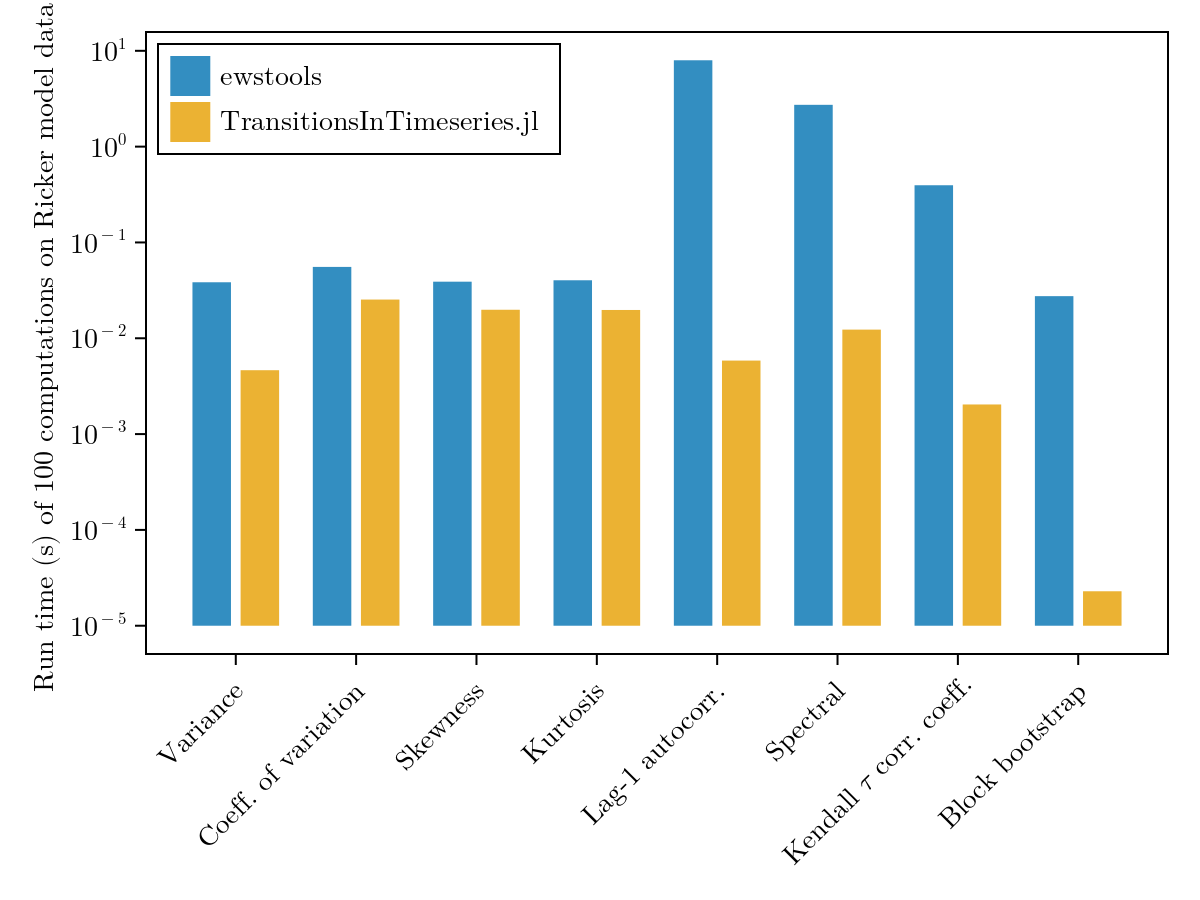
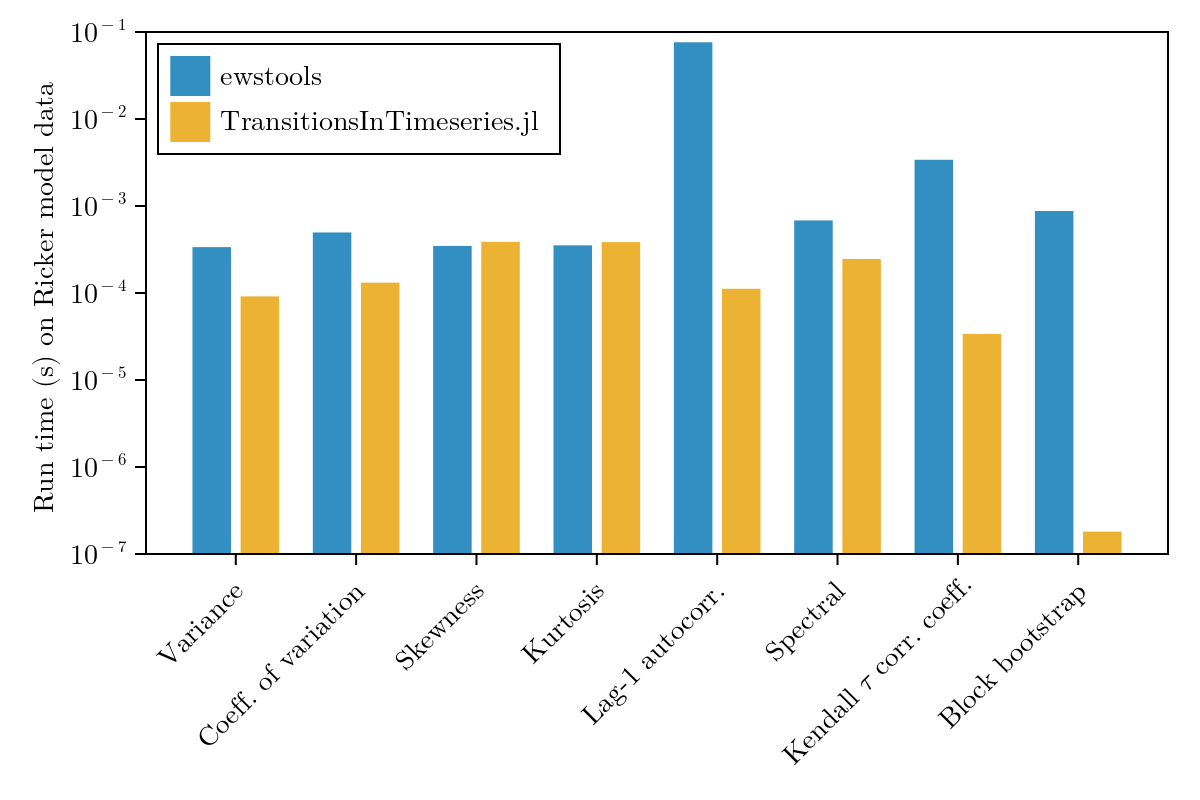
Addressing the reviews for JOSS submission (#83)
* permute left and right axis to ease reading

* write output to csv

* correct examples

* csv outputs to data folder

* read output from new csv file

* change timing to min (consistent with @belapsed)

* use @belapsed

* change csv name in comment

* update figures

* add extensibility earlier + modify description of performance

* specify ewstools version

* generalise to OffsetArrays

* remove unused packages and add OffsetArrays

diff --git a/paper/code/ewstools-tuto-1.py b/paper/code/ewstools-tuto-1.py
@@ -3,58 +3,74 @@ import numpy as np
 import matplotlib.pyplot as plt
 import ewstools
 from ewstools.models import simulate_ricker
+from importlib.metadata import version
 
-# Set seed for reproducibility
-np.random.seed(0)
+if version('ewstools') != '2.1.0':
+    raise ValueError('Please install version 2.1.0 of ewstools')
 
-# Initialize time series and spectrum computation
-series = simulate_ricker(tmax=1000, F=[0,2.7])
-ts = ewstools.TimeSeries(data=series, transition=860)
-ts.detrend(method='Lowess', span=0.2)
-ts.state[['state','smoothing']].plot()
-ts.compute_spectrum(rolling_window=0.5, ham_length=40)
+def ewstools_setup():
+    # Initialize time series and spectrum computation
+    series = simulate_ricker(tmax=1000, F=[0,2.7])
+    ts = ewstools.TimeSeries(data=series, transition=860)
+    ts.detrend(method='Lowess', span=0.2)
+    ts.state[['state','smoothing']].plot()
+    ts.compute_spectrum(rolling_window=0.5, ham_length=40)
+    return ts
 
-# Initialize parameters for timing functions
-rw = 0.5
-n = 100
-t_elapsed = np.zeros(10)
+np.random.seed(0)           # Set random seed for reproducibility
+rw = 0.5                    # Rolling window for variance computation
+ts = ewstools_setup()       # Setup time series
+n = 100                     # Number of iterations for timing
+t_elapsed = np.zeros(n)     # Array to store elapsed times
+t_minruntime = np.zeros(8) # Array to store minimum runtime
 
-# Time functions (in a not very elegant way)
-t0 = time.time()
 for i in range(n):
+    t0 = time.time()
     ts.compute_var(rolling_window=rw)
-t_elapsed[0] = time.time() - t0
+    t_elapsed[i] = time.time() - t0
+t_minruntime[0] = min(t_elapsed)
 
-t0 = time.time()
 for i in range(n):
+    t0 = time.time()
     ts.compute_cv()
-t_elapsed[1] = time.time() - t0
+    t_elapsed[i] = time.time() - t0
+t_minruntime[1] = min(t_elapsed)
 
-t0 = time.time()
 for i in range(n):
+    t0 = time.time()
     ts.compute_skew(rolling_window=rw)
-t_elapsed[2] = time.time() - t0
+    t_elapsed[i] = time.time() - t0
+t_minruntime[2] = min(t_elapsed)
 
-t0 = time.time()
 for i in range(n):
+    t0 = time.time()
     ts.compute_kurt()
-t_elapsed[3] = time.time() - t0
+    t_elapsed[i] = time.time() - t0
+t_minruntime[3] = min(t_elapsed)
 
-t0 = time.time()
 for i in range(n):
+    t0 = time.time()
     ts.compute_auto(rolling_window=rw, lag=1)
-t_elapsed[4] = time.time() - t0
+    t_elapsed[i] = time.time() - t0
+t_minruntime[4] = min(t_elapsed)
 
-t0 = time.time()
 for i in range(n):
+    t0 = time.time()
     ts.compute_smax()
-t_elapsed[5] = time.time() - t0
+    t_elapsed[i] = time.time() - t0
+t_minruntime[5] = min(t_elapsed)
 
-t0 = time.time()
 for i in range(n):
+    t0 = time.time()
     ts.compute_ktau()
-t_elapsed[6] = time.time() - t0
+    t_elapsed[i] = time.time() - t0
+t_minruntime[6] = min(t_elapsed)
 
-t0 = time.time()
-surro = ewstools.core.block_bootstrap(ts.state.residuals, n, bs_type='Stationary', block_size=10)
-t_elapsed[7] = time.time() - t0
+for i in range(n):
+    t0 = time.time()
+    ewstools.core.block_bootstrap(ts.state.residuals, 1, bs_type='Stationary', block_size=10)
+    t_elapsed[i] = time.time() - t0
+t_minruntime[7] = min(t_elapsed)
+
+np.savetxt('../data/ewstools_ricker.csv', ts.state[['residuals']].values)
+np.savetxt('../data/ewstools_perfo.csv', t_minruntime, delimiter=',')

diff --git a/paper/paper.md b/paper/paper.md
@@ -44,12 +44,15 @@ work predicting a collapse of the Atlantic Meridional Overturning Circulation be
 and 2095 has led to no less than 870 news outlets and 4100 tweets [@ditlevsen_warning_2023],
 largely because of the substantial implications of such a collapse for human societies.
 A common concern in the scientific community is that published work on the topic is difficult
-to reproduce, despite the impact it implies for humanity.
-This can be largely addressed by a unifying software that is accessible, performant,
-reproducible, reliable and extensible. Such a software does not exist yet, but here
-we propose TransitionsInTimeseries.jl to fill this gap.
-We believe this is a major step towards establishing a software as standard, widely used
-by academics working on transitions in timeseries.
+to reproduce, despite the impact it implies for humanity. Additionally, existing softwares
+[@dakos_methods_2012, @bury_ewstools_2023] are well suited to apply some state-of-the-art
+techniques but lack the possibility of being easily extended by the users, thus making them
+unsuited for some research task.
+Both of these issues can be largely addressed by a unifying software that is accessible,
+performant, reproducible, reliable and extensible. Such a software does not exist yet, but
+here we propose TransitionsInTimeseries.jl to fill this gap. We believe this is a major step
+towards establishing a software as standard, widely used by academics working on transitions
+in timeseries.
 
 # TransitionsInTimeseries.jl
 
@@ -77,8 +80,11 @@ surrogates, corresponding to a p-value $p<0.05$. All these steps can be performe
 visualisation of the results within a few lines only:
 
 ```julia
+using TransitionsInTimeseries, CairoMakie, Random
+
 # Loading and preprocessing the data needs to be done by the user
 time, data = load_data()
+residual = data - filt(data)
 
 # Choose the indicators and how to measure their change over time
 indicators = (var, ar1_whitenoise)
@@ -89,8 +95,8 @@ config = SegmentedWindowConfig(indicators, change_metrics, [time[1]], [time[end]
     width_ind = length(residual) ÷ 2, whichtime = last, min_width_cha = 100)
 
 # Compute the metrics over sliding windows and their significance
-results = estimate_changes(config, data, time)
-signif = SurrogatesSignificance(n = 1000, tail = :right, rng = Xoshiro(1995))
+results = estimate_changes(config, residual, time)
+signif = SurrogatesSignificance(n = 1000, tail = (:right, :right), rng = Xoshiro(1995))
 flags = significant_transitions(results, signif)
 
 # Visualize the results
@@ -118,7 +124,7 @@ TransitionsInTimeseries.jl is written in Julia, which offers both a simple synta
 performance. Additionally, all performance-relevant steps have been optimized and
 parallelized when possible, as, for instance, the significance testing relying on surrogates.
 In the final section of this article, we present a comparison to `ewstools`, showing that
-TransitionsInTimeseries.jl offers a significant speed-up in all the studied cases.
+TransitionsInTimeseries.jl offers a significant speed-up in most the studied cases.
 
 ## Reproducibility
 
@@ -173,17 +179,15 @@ thus offering optimized routines with numerous surrogate types.
 ### Choosing a pipeline
 
 TransitionsInTimeseries.jl covers methods for prediction as well as detection of transitions,
-which is unprecedented to our knowledge. This relies on the definition of different analysis pipelines, which
-consist in a `ChangesConfig` determining the behavior of `estimate_changes` via
-multiple dispatch. For instance, a detection
-task can be performed by replacing the `SegmentedWindowConfig` by a `SlidingWindowConfig`
-in the code above:
+which is unprecedented to our knowledge. This relies on the definition of different analysis
+pipelines, which consist in a `ChangesConfig` determining the behavior of `estimate_changes`
+via multiple dispatch. For instance, a detection task can be performed by replacing the `SegmentedWindowConfig` by a `SlidingWindowConfig` in the code above:
 
 ```julia
 # Here the data should not be detrended
 time, data = load_data()
 
-indicators = (nothing, nothing)
+indicators = nothing
 change_metrics = (difference_of_mean(), difference_of_max())
 config = SlidingWindowConfig(indicators, change_metrics;
    width_cha = 50, whichtime = midpoint)
@@ -210,10 +214,9 @@ significance pipeline and makes TransitionsInTimeseries.jl particularly versatil
 # Comparison to already existing alternatives
 
 `earlywarnings` [@dakos_methods_2012] and `spatialwarnings` are toolboxes written in R
-providing many tools to predict transitions.
-These are early and valuable efforts but are (1) restricted to
-prediction tasks, (2) written in a less performant language, (3) not parallelised, (4) not
-designed for convenient reproducibility and (5) not extensible.
+providing many tools to predict transitions. These are early and valuable efforts but
+are (1) restricted to prediction tasks, (2) written in a less performant language,
+(3) not parallelised, (4) not designed for convenient reproducibility and (5) not extensible.
 
 `ewstools` [@bury_ewstools_2023] is a Python/TensorFlow package offering similar
 functionalities as `earlywarnings`, as well as a deep-learning approach to predicting
@@ -224,11 +227,11 @@ detection and prediction tasks. We believe that this is now covered by
 TransitionsInTimeseries.jl.
 
 Using TransitionsInTimeseries.jl, we reproduced the computations showcased in Tutorial 1
-and Tutorial 2 of the `ewstools` documentation, along with the block bootstrapping. We
-performed each computation 100 times and show the resulting run times in [Fig. 2](@figure2).
-It appears that all computation are faster in TransitionsInTimeseries, with a speed-up factor
-ranging from 0 to 3 orders of magnitude. The implementation of the deep-learning classifiers
-for transition prediction developed in [@bury_deep_2021], as well as dealing with
+and Tutorial 2 of the `ewstools` (v2.1.0) documentation, along with the block bootstrapping.
+The runtimes of both softwares are benchmarked in [Fig. 2](@figure2).
+It appears that most computations are faster in TransitionsInTimeseries, with a speed-up
+factor ranging from 0 to 3.5 orders of magnitude. The implementation of the deep-learning
+classifiers for transition prediction developed in [@bury_deep_2021], as well as dealing with
 multidimensional timeseries, are part of future developments of TransitionsInTimeseries.jl.
 
 ![Performance comparison between `ewstools` and TransitionsInTimeseries.jl.\label{fig: fig1}](figures/figure2.png)
@@ -241,8 +244,8 @@ The documentation of TransitionsInTimseries.jl is available at
 # Acknowledgements
 
 Jan Swierczek-Jereczek is funded by CriticalEarth, grant no. 956170, an H2020 Research
-Infrastructure of the European Commission. George Datseris is funded by UKRI's Engineering and
-Physical Sciences Research Council, grant no. EP/Y01653X/1 (grant agreement for a EU
+Infrastructure of the European Commission. George Datseris is funded by UKRI's Engineering
+and Physical Sciences Research Council, grant no. EP/Y01653X/1 (grant agreement for a EU
 Marie Sklodowska-Curie Postdoctoral Fellowship).
 
 # References
